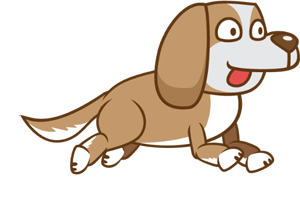
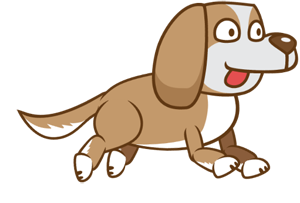
add texture for Dog

Changed region(s): [[0.06, 0.0, 1.0, 0.9163], [0.39, 0.0296, 0.63, 0.532]]

diff --git a/src/Game.cpp b/src/Game.cpp
@@ -111,6 +111,29 @@ void Game::loadAllTexture() {
     TextureHolder::getHolder().load(Textures::CAT_7, "image/Cat/frame-7.png");
     TextureHolder::getHolder().load(Textures::CAT_8, "image/Cat/frame-8.png");
 
+    TextureHolder::getHolder().load(Textures::DOG_1, "image/Dog/frame-1.png");
+    TextureHolder::getHolder().load(Textures::DOG_2, "image/Dog/frame-2.png");
+    TextureHolder::getHolder().load(Textures::DOG_3, "image/Dog/frame-3.png");
+    TextureHolder::getHolder().load(Textures::DOG_4, "image/Dog/frame-4.png");
+    TextureHolder::getHolder().load(Textures::DOG_5, "image/Dog/frame-5.png");
+    TextureHolder::getHolder().load(Textures::DOG_6, "image/Dog/frame-6.png");
+    TextureHolder::getHolder().load(Textures::DOG_7, "image/Dog/frame-7.png");
+    TextureHolder::getHolder().load(Textures::DOG_8, "image/Dog/frame-8.png");
+    TextureHolder::getHolder().load(Textures::DOG_9, "image/Dog/frame-9.png");
+    TextureHolder::getHolder().load(Textures::DOG_10, "image/Dog/frame-10.png");
+    TextureHolder::getHolder().load(Textures::DOG_11, "image/Dog/frame-11.png");
+    TextureHolder::getHolder().load(Textures::DOG_12, "image/Dog/frame-12.png");
+    TextureHolder::getHolder().load(Textures::DOG_13, "image/Dog/frame-13.png");
+    TextureHolder::getHolder().load(Textures::DOG_14, "image/Dog/frame-14.png");
+    TextureHolder::getHolder().load(Textures::DOG_15, "image/Dog/frame-15.png");
+    TextureHolder::getHolder().load(Textures::DOG_16, "image/Dog/frame-16.png");
+    TextureHolder::getHolder().load(Textures::DOG_17, "image/Dog/frame-17.png");
+    TextureHolder::getHolder().load(Textures::DOG_18, "image/Dog/frame-18.png");
+    TextureHolder::getHolder().load(Textures::DOG_19, "image/Dog/frame-19.png");
+    TextureHolder::getHolder().load(Textures::DOG_20, "image/Dog/frame-20.png");
+    
+    
+
 }
 
 void Game::run() {

diff --git a/src/lane.cpp b/src/lane.cpp
@@ -1,7 +1,10 @@
 #include "lane.h"
 #include"Bird.h"
 #include"Cat.h"
+#include"Dog.h"
 #include <iostream>
+#include<vector>
+
 
 Lane::Lane(float y, float mapSpeed) 
 : y(y), mapSpeed(mapSpeed)
@@ -55,18 +58,21 @@ Lane::Lane(float y, float mapSpeed)
 }
 void Lane::addObstacle()
 {
-    int r = rand() % 2;
+    int r = rand() % 5;
     if (r == 0) return;   
     if (isSafe) {
         Obstacle* tmp = nullptr;
         for (int i = 1; i <= r; i++){
-            int randomType = rand() % 2;
+            int randomType = rand() % 3;
             switch (randomType){
                 case 0: 
                     tmp = new Bird({0,this->y},randomSpeed);
                     break;
                 case 1:
                     tmp = new Cat({0,this->y},randomSpeed);
+                    break;
+                case 2:
+                    tmp = new Dog({0,this->y},randomSpeed);
                     break;
                 default:
                     break;
@@ -76,6 +82,8 @@ void Lane::addObstacle()
         
     }
 }
+
+
 void Lane::draw() 
 {
     DrawTextureEx(*texture, {0, y}, 0, 1, WHITE);
@@ -85,9 +93,13 @@ void Lane::draw()
         trafficLight->setY(y);
         trafficLight->draw();
     }
-    for (auto obstacle : obstacles) {
+    
+
+    
+    for (const auto& obstacle : obstacles) {
         obstacle->draw();
     }
+ 
     // static int i = 0;
 }
 

diff --git a/src/Dog.cpp b/src/Dog.cpp
@@ -1,0 +1,42 @@
+// Dog.cpp
+#include "Dog.h"
+#include"TextureHolder.h"
+#include<iostream>
+Dog::Dog(const Vector2& pos, float speed) : Obstacle(pos, speed), numsFrame(20), curFrame(0),frameTime(0.0f) {
+    // Load Dog frames
+    for (int i = 0; i < numsFrame; i++){
+        txt.push_back(&TextureHolder::getHolder().get((Textures::ID)(Textures::DOG_1 + i)));
+    }
+    
+}
+    
+Dog::~Dog() {
+}
+
+void Dog::update(float k){
+    this->setPos(this->getPos().x,k);
+}
+
+
+void Dog::draw() {
+    //std::cerr << "Dog " << position.y << std::endl;
+    frameTime += GetFrameTime();
+    if (frameTime >= 0.1f) {  // Change this value to control the frame rate
+        frameTime = 0.0f;
+        curFrame = (curFrame + 1) % numsFrame;
+    }
+    
+    Vector2 tmp = this->getPos();
+    // Move horizontally based on some speed (adjust as needed)
+    tmp.x += this->getSpeed() * frameTime * 10;
+    setPos(tmp.x,tmp.y);
+    if (checkOutOfScreen()){
+        setPos(0,tmp.y);
+    }
+
+    float scale = 0.35f;
+
+    // Draw the current frame of the sprite at the updated position with  size
+    DrawTextureEx(*txt[curFrame],this->getPos(),0.0f, scale, WHITE);
+    
+}

diff --git a/src/TextureHolder.h b/src/TextureHolder.h
@@ -66,6 +66,31 @@ namespace Textures
         CAT_6,
         CAT_7,
         CAT_8,
+
+        //dog
+        DOG_1,
+        DOG_2,
+        DOG_3,
+        DOG_4,
+        DOG_5,
+        DOG_6,
+        DOG_7,
+        DOG_8,
+        DOG_9,
+        DOG_10,
+        DOG_11,
+        DOG_12,
+        DOG_13,
+        DOG_14,
+        DOG_15,
+        DOG_16,
+        DOG_17,
+        DOG_18,
+        DOG_19,
+        DOG_20,
+        DOG_21,
+
+
     };
 }
 

diff --git a/src/Dog.h b/src/Dog.h
@@ -1,0 +1,19 @@
+#pragma once
+#include"raylib.h"
+#include <string>
+#include <vector>
+#include"Obstacle.h"
+
+class Dog : public Obstacle{
+private:
+    std::vector<Texture2D *> txt;  // Vector of Texture2D (frames)
+
+    int numsFrame, curFrame;       // Store frames to draw
+    float frameTime; 
+public:
+    //Constructor
+    Dog(const Vector2& pos,float Speed);
+    ~Dog();        
+    void draw() override;
+    void update(float y) override;
+};

diff --git a/src/lane.h b/src/lane.h
@@ -18,6 +18,7 @@ class Lane {
         void addObstacle();
         void draw();
         void update();
+       
     private:
         float randomSpeed;
         const Texture2D* texture;

diff --git a/src/main.cpp b/src/main.cpp
@@ -1,7 +1,10 @@
 #include "Game.h"
 #include "raylib.h"
-
+#include<vector>
 using namespace std;
+
+#include <thread>
+#include <chrono>
 
 int main() {
     Game game;
